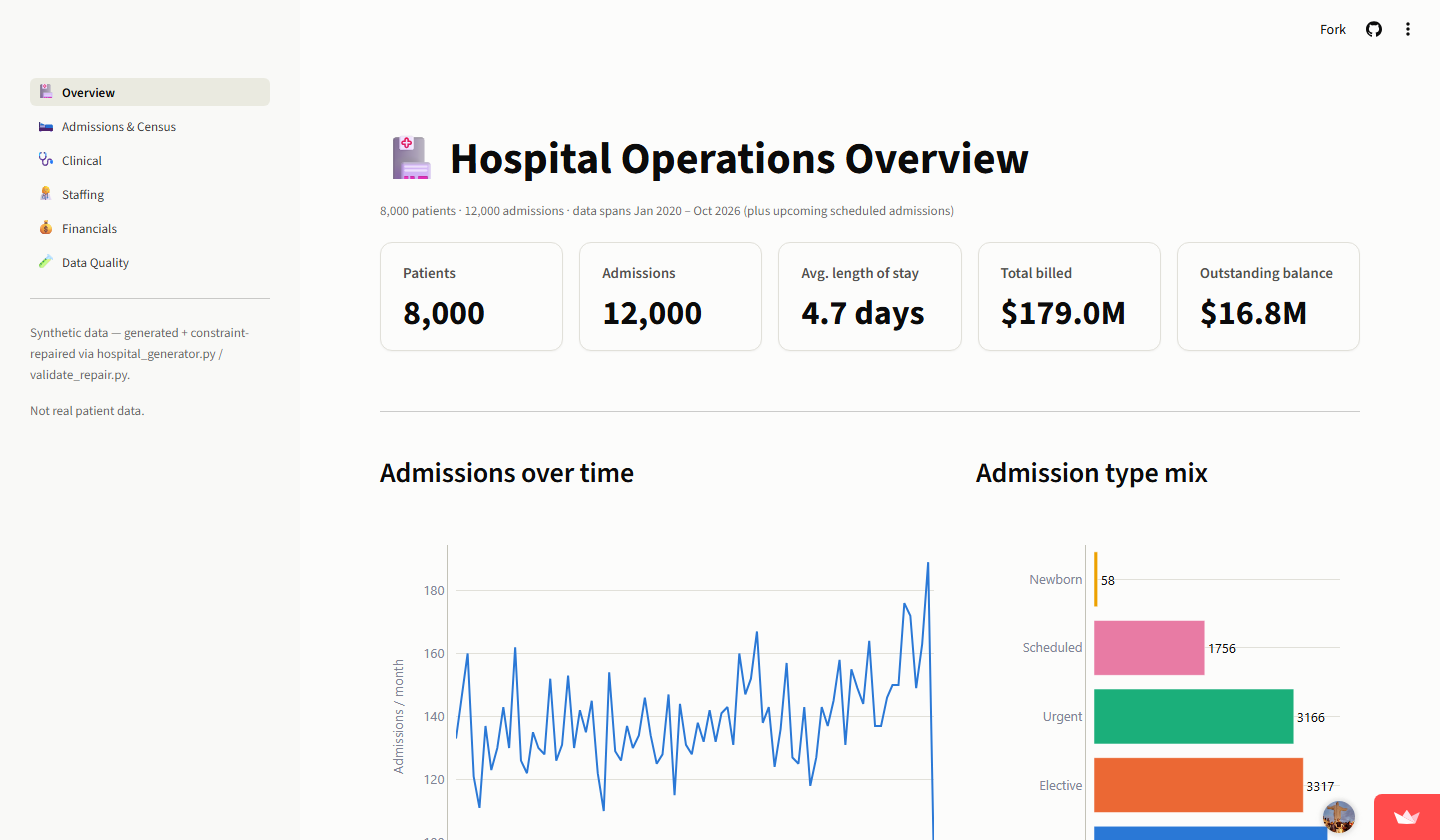
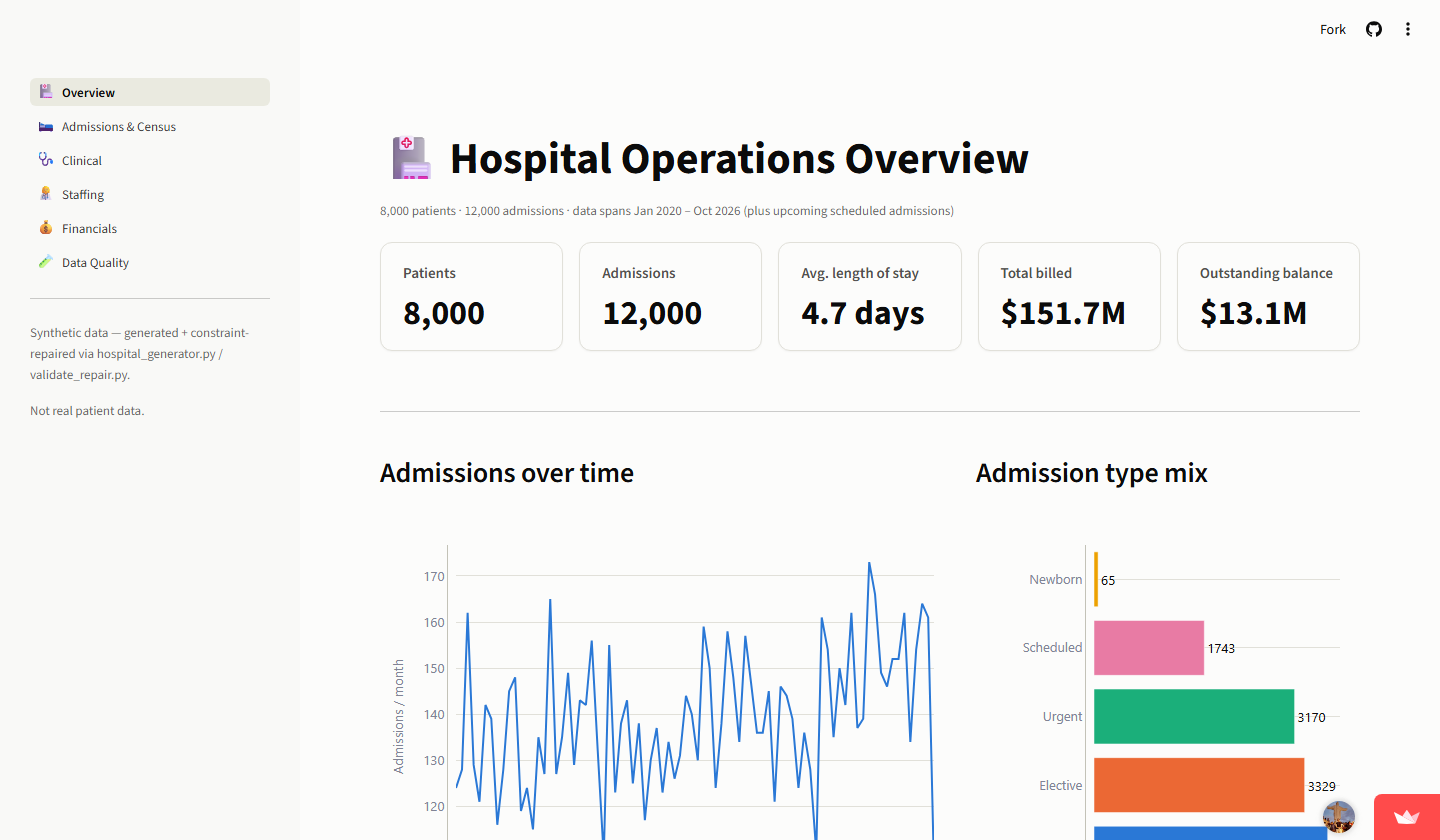
Docs: retake Overview and Data Quality screenshots from the live site (57 checks, current data)

diff --git a/README.md b/README.md
@@ -2,7 +2,7 @@
 
 ![Hospital Operations dashboard](docs/screenshot.png)
 
-![Data Quality page — the 51 checks, before vs after repair](docs/screenshot_data_quality.png)
+![Data Quality page — the 57 checks, before vs after repair](docs/screenshot_data_quality.png)
 
 [![License: MIT](https://img.shields.io/badge/License-MIT-yellow.svg)](https://opensource.org/licenses/MIT)
 [![Python 3.11+](https://img.shields.io/badge/python-3.11+-blue.svg)](https://www.python.org/downloads/)
